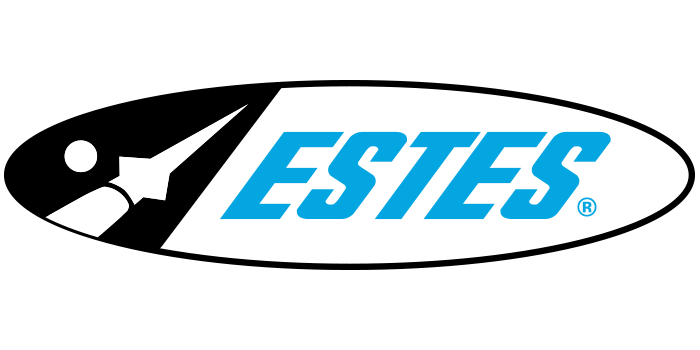
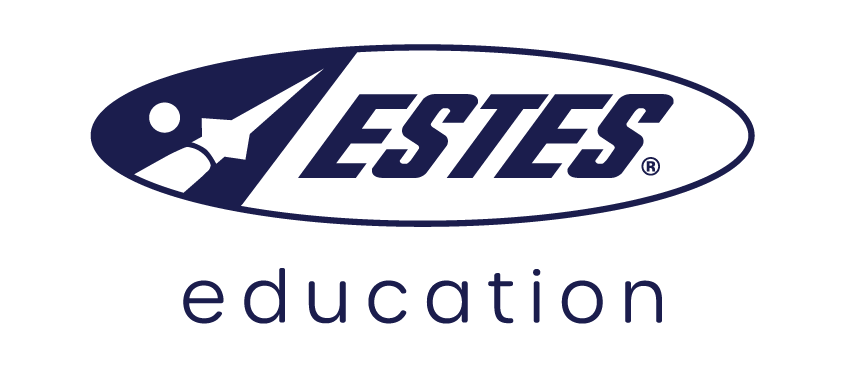
f

diff --git a/src/components/home/BoundariesSection.jsx b/src/components/home/BoundariesSection.jsx
@@ -66,7 +66,7 @@ const PARAGRAPHS = [
   {
     anchor: 'pilot',
     dropCap: true,
-    text: "My name is Shannon. I am a 20-year-old British-Hong Kong commercial pilot, engineer and scientist. I am not yet in college because for the past years I have been single handedly trying to build this mission from the groun-up. My goal is to advance the frontiers of aviation and science. To reach that goal, I am building the largest solo, pilot-conducted scientific airborne expedition ever undertaken in human history. I want to push the boundaries of aviation and science by flying a light twin-engine aircraft solo across all seven continents \u2014 including a sixteen-to-twenty-hour nonstop crossing of the Antarctic interior to the South Pole, at the edge of what an aircraft like this has ever been asked to do.",
+    text: "My name is Shannon. I am a 20-year-old British-Hong Kong commercial pilot, engineer and scientist. I am not yet in college because for the past years I have been single handedly trying to build this mission from the ground-up. My goal is to advance the frontiers of aviation and science. To reach that goal, I am building the largest solo, pilot-conducted scientific airborne expedition ever undertaken in human history. I want to push the boundaries of aviation and science by flying a light twin-engine aircraft solo across all seven continents \u2014 including a sixteen-to-twenty-hour nonstop crossing of the Antarctic interior to the South Pole, at the edge of what an aircraft like this has ever been asked to do.",
   },
   {
     anchor: 'scientist',

diff --git a/src/components/journey/FlightSchedule.jsx b/src/components/journey/FlightSchedule.jsx
@@ -22,7 +22,7 @@ const icaoToName = {
   SCEL: 'Santiago (SCEL)',
   SAWH: 'Ushuaia (SAWH)',
   SAWB: 'Stanley (SAWB)',
-  'WFR / NOVO': 'Wolf\'s Fang / Novo Runway',
+ 
   FACT: 'Cape Town (FACT)',
   FMMI: 'Antananarivo (FMMI)',
   VRMG: 'Malé (VRMG)',
@@ -73,9 +73,6 @@ const rawLegs = [
   { date: 46327, dep: 'SGAS',       arr: 'SCEL',        dist: 850,  notes: '' },
   { date: 46328, dep: 'SCEL',       arr: 'SAWH',        dist: 1520, notes: 'Pat. Fields' },
   { date: 46329, dep: 'SAWH',       arr: 'SAWB',        dist: 666,  notes: '' },
-  { date: 46357, dep: 'SAWB',       arr: 'WFR / NOVO',  dist: 1470, notes: '' },
-  { date: 46360, dep: 'WFR / NOVO', arr: 'WFR / NOVO',  dist: 2240, notes: 'SP transit' },
-  { date: 46363, dep: 'WFR / NOVO', arr: 'FACT',        dist: 2280, notes: '' },
   { date: 46367, dep: 'FACT',       arr: 'FMMI',        dist: 1791, notes: '' },
   { date: 46370, dep: 'FMMI',       arr: 'VRMG',        dist: 1861, notes: '' },
   { date: 46373, dep: 'VRMG',       arr: 'YPCC',        dist: 1570, notes: '' },

diff --git a/src/pages/JourneyPage.jsx b/src/pages/JourneyPage.jsx
@@ -68,9 +68,6 @@ const SCHEDULE = [
   { from: 'Asunci\u00f3n (SGAS)', to: 'Santiago (SCEL)', date: '11/01/2026', note: '' },
   { from: 'Santiago (SCEL)', to: 'Ushuaia (SAWH)', date: '11/02/2026', note: 'Pat. Fields' },
   { from: 'Ushuaia (SAWH)', to: 'Stanley (SAWB)', date: '11/03/2026', note: '' },
-  { from: 'Stanley (SAWB)', to: "Wolf's Fang / Novo", date: '12/01/2026', note: '' },
-  { from: "Wolf's Fang / Novo", to: "Wolf's Fang / Novo", date: '12/04/2026', note: 'SP transit' },
-  { from: "Wolf's Fang / Novo", to: 'Cape Town (FACT)', date: '12/07/2026', note: '' },
   { from: 'Cape Town (FACT)', to: 'Antananarivo (FMMI)', date: '12/11/2026', note: '' },
   { from: 'Antananarivo (FMMI)', to: 'Mal\u00e9 (VRMG)', date: '12/14/2026', note: '' },
   { from: 'Mal\u00e9 (VRMG)', to: 'Cocos Islands (YPCC)', date: '12/17/2026', note: '' },

diff --git a/src/pages/PartnersPage.jsx b/src/pages/PartnersPage.jsx
@@ -171,7 +171,7 @@ const PartnersPage = () => {
       role: "Education Partner",
       logo: "/estes.png",
       description: "Estes Rockets is America's most iconic model rocketry brand, inspiring generations of engineers, scientists, and explorers since 1958. Estes has partnered with GIRLFLIESWORLD to bring the Antarctic expedition into classrooms across America, giving students hands-on experience in aerospace engineering and mission planning.",
-      website: "https://www.estesrockets.com/",
+      website: "https://edu.estesrockets.com/",
     },
     {
       name: "SCAR RINGS",
